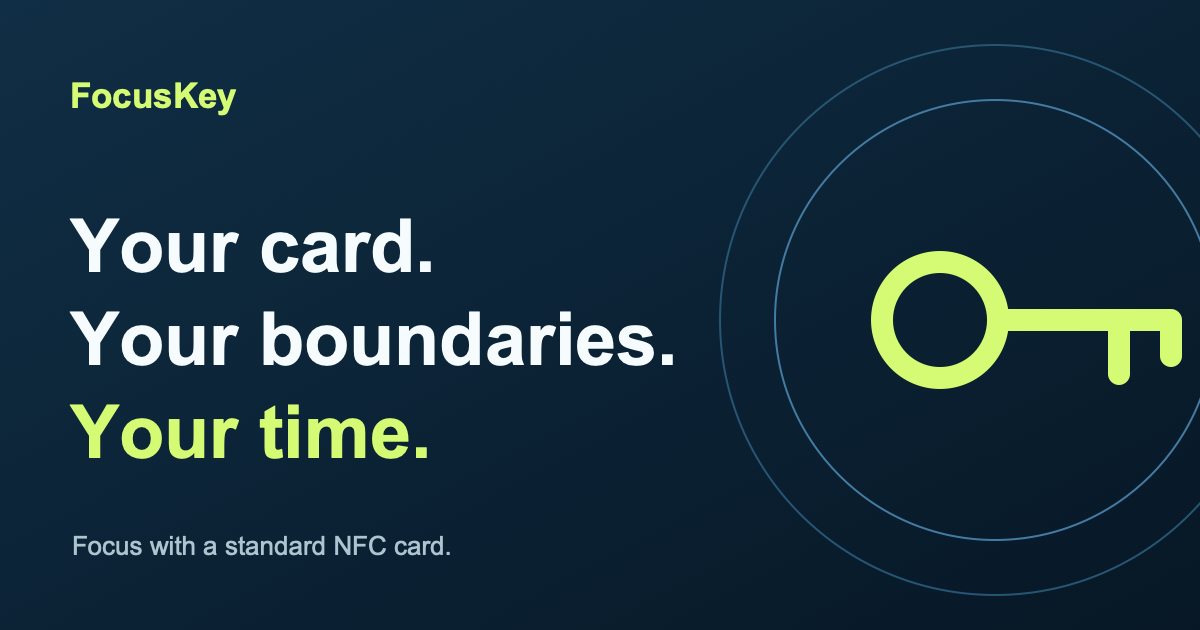
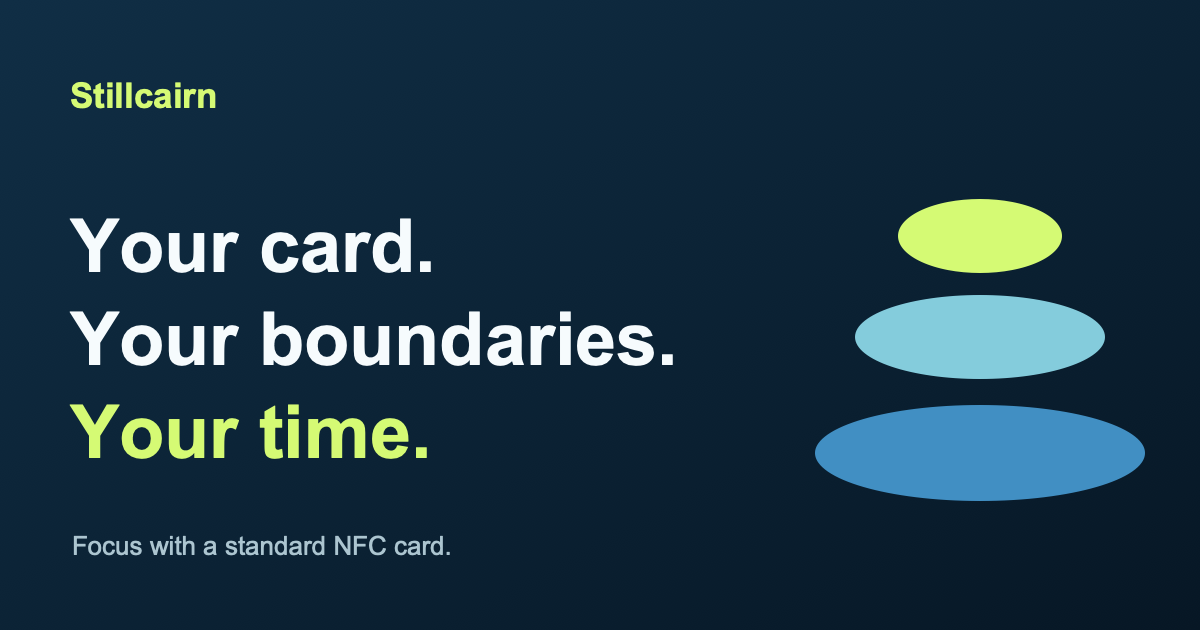
Rebrand public site as Stillcairn

diff --git a/index.html b/index.html
@@ -4,31 +4,31 @@
   <meta charset="utf-8">
   <meta name="viewport" content="width=device-width, initial-scale=1">
   <meta name="theme-color" content="#091725">
-  <meta name="description" content="FocusKey turns a standard NFC card into a personal focus ritual. Choose what stays available, see your real session history, and keep your focus data on your iPhone.">
+  <meta name="description" content="Stillcairn turns a standard NFC card into a personal focus ritual. Choose what stays available, see your real session history, and keep your focus data on your iPhone.">
   <meta property="og:type" content="website">
-  <meta property="og:title" content="FocusKey — Your card. Your boundaries. Your time.">
+  <meta property="og:title" content="Stillcairn — Your card. Your boundaries. Your time.">
   <meta property="og:description" content="A personal focus ritual built around a standard NFC card, thoughtful profiles, and honest local insights.">
   <meta property="og:image" content="https://focus.cybrpulse.com/social.png">
   <meta property="og:url" content="https://focus.cybrpulse.com/">
   <link rel="canonical" href="https://focus.cybrpulse.com/">
   <link rel="icon" href="favicon.svg" type="image/svg+xml">
   <link rel="stylesheet" href="styles.css">
-  <title>FocusKey — Your card. Your boundaries. Your time.</title>
+  <title>Stillcairn — Your card. Your boundaries. Your time.</title>
 </head>
 <body>
   <a class="skip-link" href="#main">Skip to content</a>
   <header class="site-header">
     <div class="shell nav-row">
-      <a class="brand" href="./" aria-label="FocusKey home">
-        <svg class="brand-icon" viewBox="0 0 40 40" fill="none" aria-hidden="true"><rect x="1" y="1" width="38" height="38" rx="12" fill="#142e45"/><circle cx="15" cy="20" r="6" stroke="#d5fa74" stroke-width="4"/><path d="M21 20h12m-5 0v5m5-5v3" stroke="#d5fa74" stroke-width="4" stroke-linecap="round"/></svg>
-        <span>FocusKey</span>
+      <a class="brand" href="./" aria-label="Stillcairn home">
+        <svg class="brand-icon" viewBox="0 0 40 40" fill="none" aria-hidden="true"><rect x="1" y="1" width="38" height="38" rx="12" fill="#142e45"/><ellipse cx="20" cy="27" rx="12" ry="3.5" fill="#418fc3"/><ellipse cx="20" cy="19.5" rx="9" ry="3.2" fill="#84ccdc"/><ellipse cx="20" cy="12.5" rx="6" ry="3" fill="#d5fa74"/></svg>
+        <span>Stillcairn</span>
       </a>
       <nav class="main-nav" aria-label="Main navigation">
         <a href="#how-it-works">How it works</a>
-        <a href="#why-focuskey">Why FocusKey</a>
+        <a href="#why-stillcairn">Why Stillcairn</a>
         <a href="#questions">Questions</a>
       </nav>
-      <a class="nav-cta" href="mailto:support@cybrpulse.com?subject=FocusKey%20early%20access">Request early access <span aria-hidden="true">↗</span></a>
+      <a class="nav-cta" href="mailto:support@cybrpulse.com?subject=Stillcairn%20early%20access">Request early access <span aria-hidden="true">↗</span></a>
     </div>
   </header>
 
@@ -39,19 +39,19 @@
         <h1 id="hero-title">Your card.<br>Your boundaries.<br><em>Your time.</em></h1>
         <p class="hero-lede">Turn an ordinary NFC card into a moment of intention. Choose what stays available, step away from distractions, and see the focus sessions you actually completed.</p>
         <div class="hero-actions">
-          <a class="button button-primary" href="mailto:support@cybrpulse.com?subject=FocusKey%20early%20access">Request early access <span aria-hidden="true">↗</span></a>
+          <a class="button button-primary" href="mailto:support@cybrpulse.com?subject=Stillcairn%20early%20access">Request early access <span aria-hidden="true">↗</span></a>
           <a class="text-link" href="#how-it-works">Explore the ritual <span aria-hidden="true">↓</span></a>
         </div>
-        <div class="hero-proof" aria-label="FocusKey principles">
+        <div class="hero-proof" aria-label="Stillcairn principles">
           <span>Standard NFC cards</span><span>Local by design</span><span>iPhone first</span>
         </div>
       </div>
-      <div class="hero-art" aria-label="Illustration of FocusKey on an iPhone with a physical NFC card">
+      <div class="hero-art" aria-label="Illustration of Stillcairn on an iPhone with a physical NFC card">
         <div class="orbit orbit-one"></div><div class="orbit orbit-two"></div>
         <div class="phone-frame">
           <div class="phone-screen">
             <div class="phone-status"><span>9:41</span><span>●●● ▰</span></div>
-            <div class="phone-head"><span class="phone-logo">◉</span><span>FOCUSKEY</span></div>
+            <div class="phone-head"><span class="phone-logo">◉</span><span>STILLCAIRN</span></div>
             <div class="phone-greeting">Make space for<br><strong>deep work.</strong></div>
             <div class="session-card">
               <div class="session-top"><span class="session-label">FOCUS IS ON</span><span class="session-spark">✦</span></div>
@@ -64,7 +64,7 @@
             <div class="phone-tab"><span>◉<small>Focus</small></span><span>▣<small>Profiles</small></span><span>▥<small>Insights</small></span></div>
           </div>
         </div>
-        <div class="key-card" aria-hidden="true"><div class="key-card-top"><span>FK / 01</span><span>↗</span></div><svg viewBox="0 0 120 120" fill="none"><circle cx="60" cy="60" r="46" stroke="#5ba7ff" stroke-width="2" opacity=".8"/><circle cx="47" cy="60" r="13" stroke="#d5fa74" stroke-width="7"/><path d="M60 60h36m-11 0v13m11-13v9" stroke="#d5fa74" stroke-width="7" stroke-linecap="round"/></svg><span class="key-card-label">YOUR PHYSICAL KEY</span></div>
+        <div class="key-card" aria-hidden="true"><div class="key-card-top"><span>SC / 01</span><span>↗</span></div><svg viewBox="0 0 120 120" fill="none"><ellipse cx="60" cy="83" rx="35" ry="10" fill="#418fc3"/><ellipse cx="60" cy="60" rx="27" ry="9" fill="#84ccdc"/><ellipse cx="60" cy="39" rx="18" ry="8" fill="#d5fa74"/></svg><span class="key-card-label">YOUR PHYSICAL KEY</span></div>
         <span class="art-caption">Illustrative app preview</span>
       </div>
     </section>
@@ -72,7 +72,7 @@
     <section class="marquee-band" aria-label="Product highlights"><div class="shell marquee-inner"><span>CHOOSE YOUR CARD</span><b>✦</b><span>KEEP YOUR ESSENTIALS</span><b>✦</b><span>SEE YOUR REAL PROGRESS</span><b>✦</b><span>RETURN WITH INTENTION</span></div></section>
 
     <section id="how-it-works" class="section shell ritual-section">
-      <div class="section-heading"><p class="kicker">01 / A SIMPLE RITUAL</p><h2>Three steps.<br><span>More room to think.</span></h2><p>FocusKey gives your intention a physical place to live. Your iPhone remains useful while the distractions you selected take a break.</p></div>
+      <div class="section-heading"><p class="kicker">01 / A SIMPLE RITUAL</p><h2>Three steps.<br><span>More room to think.</span></h2><p>Stillcairn gives your intention a physical place to live. Your iPhone remains useful while the distractions you selected take a break.</p></div>
       <div class="steps-grid">
         <article class="step-card"><div class="step-number">01 <span>↗</span></div><div class="step-visual visual-select"><div class="mini-row"><span class="mini-square blue"></span><span>Deep work</span><span class="mini-check">✓</span></div><div class="mini-row"><span class="mini-square lime"></span><span>Family time</span><span>○</span></div><div class="mini-row"><span class="mini-square muted"></span><span>Evening reset</span><span>○</span></div></div><h3>Set the scene</h3><p>Make a profile for each part of your day. Pause selected apps and sites, or choose supported essentials to keep available.</p></article>
         <article class="step-card"><div class="step-number">02 <span>↗</span></div><div class="step-visual visual-card"><div class="tap-card"><span class="tap-rings">◖))</span><span>YOUR CARD</span></div><div class="tap-wave"></div></div><h3>Scan your card</h3><p>Use a compatible writable NFC card. Keep it at your desk, door, or wherever you want to return before ending a session.</p></article>
@@ -80,33 +80,33 @@
       </div>
     </section>
 
-    <section id="why-focuskey" class="difference-section">
+    <section id="why-stillcairn" class="difference-section">
       <div class="shell difference-grid">
-        <div class="difference-intro"><p class="kicker">02 / THE FOCUSKEY WAY</p><h2>A tool you can<br><em>make your own.</em></h2><p>The focus ritual should fit your life. Choose your card, set your own boundaries, and keep a clear view of what happened.</p><a class="light-link" href="#questions">Common questions <span aria-hidden="true">↗</span></a></div>
+        <div class="difference-intro"><p class="kicker">02 / THE STILLCAIRN WAY</p><h2>A tool you can<br><em>make your own.</em></h2><p>The focus ritual should fit your life. Choose your card, set your own boundaries, and keep a clear view of what happened.</p><a class="light-link" href="#questions">Common questions <span aria-hidden="true">↗</span></a></div>
         <div class="difference-list">
-          <article><span class="feature-icon">⌁</span><div><h3>Bring a standard card</h3><p>FocusKey works with writable NTAG213, NTAG215, and NTAG216 NFC cards. Add more than one key and label where you keep each one.</p></div><span class="feature-index">01</span></article>
+          <article><span class="feature-icon">⌁</span><div><h3>Bring a standard card</h3><p>Stillcairn works with writable NTAG213, NTAG215, and NTAG216 NFC cards. Add more than one key and label where you keep each one.</p></div><span class="feature-index">01</span></article>
           <article><span class="feature-icon">◌</span><div><h3>Keep your setup local</h3><p>Your profiles, card pairings, and session history live on your iPhone. A card can be added to another phone with a separate local pairing.</p></div><span class="feature-index">02</span></article>
           <article><span class="feature-icon">◷</span><div><h3>Build a rhythm</h3><p>Start with a scan or set a weekly focus window. A Home Screen widget keeps the active profile and elapsed timer in sight.</p></div><span class="feature-index">03</span></article>
-          <article><span class="feature-icon">↺</span><div><h3>Recover deliberately</h3><p>Lost your card? A confirmed recovery clears FocusKey’s restrictions and revokes the phone’s paired keys before a fresh setup.</p></div><span class="feature-index">04</span></article>
+          <article><span class="feature-icon">↺</span><div><h3>Recover deliberately</h3><p>Lost your card? A confirmed recovery clears Stillcairn’s restrictions and revokes the phone’s paired keys before a fresh setup.</p></div><span class="feature-index">04</span></article>
         </div>
       </div>
     </section>
 
-    <section class="section shell insight-section"><div class="insight-copy"><p class="kicker">03 / PROGRESS YOU CAN TRUST</p><h2>See the time<br>you <em>showed up.</em></h2><p>FocusKey counts completed focus sessions, not hypothetical productivity. Explore your week, compare profiles, and recognize the effort that became a habit.</p><div class="insight-tags"><span>Completed sessions</span><span>Time in focus</span><span>Profile trends</span></div></div><div class="insight-panel"><div class="panel-top"><span>YOUR WEEK</span><span>EXAMPLE DATA</span></div><div class="panel-metric">8h <span>24m</span></div><div class="panel-caption">Recorded focus time</div><div class="large-bars" aria-hidden="true"><div><i style="--h:41%"></i><small>M</small></div><div><i style="--h:67%"></i><small>T</small></div><div><i style="--h:34%"></i><small>W</small></div><div><i style="--h:83%"></i><small>T</small></div><div><i style="--h:59%"></i><small>F</small></div><div><i style="--h:98%"></i><small>S</small></div><div><i style="--h:72%"></i><small>S</small></div></div><div class="panel-bottom"><span>Example chart · Your data stays on your iPhone</span><span>↗</span></div></div></section>
+    <section class="section shell insight-section"><div class="insight-copy"><p class="kicker">03 / PROGRESS YOU CAN TRUST</p><h2>See the time<br>you <em>showed up.</em></h2><p>Stillcairn counts completed focus sessions, not hypothetical productivity. Explore your week, compare profiles, and recognize the effort that became a habit.</p><div class="insight-tags"><span>Completed sessions</span><span>Time in focus</span><span>Profile trends</span></div></div><div class="insight-panel"><div class="panel-top"><span>YOUR WEEK</span><span>EXAMPLE DATA</span></div><div class="panel-metric">8h <span>24m</span></div><div class="panel-caption">Recorded focus time</div><div class="large-bars" aria-hidden="true"><div><i style="--h:41%"></i><small>M</small></div><div><i style="--h:67%"></i><small>T</small></div><div><i style="--h:34%"></i><small>W</small></div><div><i style="--h:83%"></i><small>T</small></div><div><i style="--h:59%"></i><small>F</small></div><div><i style="--h:98%"></i><small>S</small></div><div><i style="--h:72%"></i><small>S</small></div></div><div class="panel-bottom"><span>Example chart · Your data stays on your iPhone</span><span>↗</span></div></div></section>
 
     <section class="quote-section"><div class="shell"><p class="kicker">YOUR PHONE, WITH PURPOSE</p><blockquote>“Choose what gets your attention. Give that choice a place in the real world.”</blockquote><p class="quote-note">A small, repeatable action can make the next hour feel different.</p></div></section>
 
     <section id="questions" class="section shell faq-section"><div class="faq-intro"><p class="kicker">04 / THE DETAILS</p><h2>Good questions.<br><span>Clear answers.</span></h2></div><div class="faq-list">
       <details><summary>What kind of card do I need?<span>+</span></summary><p>A writable NTAG213, NTAG215, or NTAG216 NFC card. Choose a card with a roughly 25–30 mm antenna for easier scanning. For a metal surface, use an on-metal or ferrite-backed tag.</p></details>
-      <details><summary>Can I pair more than one card?<span>+</span></summary><p>Yes. FocusKey supports up to 16 cards on one iPhone. You can name each key and remove an individual key while no focus session or scheduled window is active.</p></details>
-      <details><summary>Can I use one card on another iPhone?<span>+</span></summary><p>Yes. Scan an existing FocusKey card in the second iPhone’s Add key flow. Each phone stores and manages its own pairing; removing a card from one phone does not remove it from the other.</p></details>
-      <details><summary>What happens if I lose every card?<span>+</span></summary><p>Use the app’s confirmed Lost your key recovery. It clears FocusKey’s restrictions on that phone, revokes its paired cards, and requires a new card write and verification before another focus session. It cannot erase a lost physical card.</p></details>
-      <details><summary>Does this lock my whole phone?<span>+</span></summary><p>No. FocusKey uses iOS Screen Time controls for the apps, categories, and supported websites selected in a profile. It does not change your passcode or lock the device. You retain control of Screen Time authorization in iOS Settings.</p></details>
-      <details><summary>Is FocusKey available to buy today?<span>+</span></summary><p>FocusKey is in private iPhone testing. Pricing and public availability have not been announced. Email us to ask about early access and updates.</p></details>
+      <details><summary>Can I pair more than one card?<span>+</span></summary><p>Yes. Stillcairn supports up to 16 cards on one iPhone. You can name each key and remove an individual key while no focus session or scheduled window is active.</p></details>
+      <details><summary>Can I use one card on another iPhone?<span>+</span></summary><p>Yes. Scan an existing Stillcairn card in the second iPhone’s Add key flow. Each phone stores and manages its own pairing; removing a card from one phone does not remove it from the other.</p></details>
+      <details><summary>What happens if I lose every card?<span>+</span></summary><p>Use the app’s confirmed Lost your key recovery. It clears Stillcairn’s restrictions on that phone, revokes its paired cards, and requires a new card write and verification before another focus session. It cannot erase a lost physical card.</p></details>
+      <details><summary>Does this lock my whole phone?<span>+</span></summary><p>No. Stillcairn uses iOS Screen Time controls for the apps, categories, and supported websites selected in a profile. It does not change your passcode or lock the device. You retain control of Screen Time authorization in iOS Settings.</p></details>
+      <details><summary>Is Stillcairn available to buy today?<span>+</span></summary><p>Stillcairn is in private iPhone testing. Pricing and public availability have not been announced. Email us to ask about early access and updates.</p></details>
     </div></section>
 
-    <section class="closing-section"><div class="shell closing-grid"><div><p class="kicker">FOCUS BEGINS WITH A CHOICE</p><h2>Put intention<br><em>within reach.</em></h2><p>Bring a card. Make a profile. Give the next part of your day a little more space.</p><a class="button button-dark" href="mailto:support@cybrpulse.com?subject=FocusKey%20early%20access">Request early access <span aria-hidden="true">↗</span></a><span class="availability">Private iPhone testing · iOS 17 or later</span></div><div class="closing-mark" aria-hidden="true"><svg viewBox="0 0 220 220" fill="none"><circle cx="110" cy="110" r="100" stroke="#0e293b" stroke-width="2"/><circle cx="92" cy="110" r="30" stroke="#0e293b" stroke-width="13"/><path d="M122 110h70m-20 0v28m20-28v18" stroke="#0e293b" stroke-width="13" stroke-linecap="round"/></svg></div></div></section>
+    <section class="closing-section"><div class="shell closing-grid"><div><p class="kicker">FOCUS BEGINS WITH A CHOICE</p><h2>Put intention<br><em>within reach.</em></h2><p>Bring a card. Make a profile. Give the next part of your day a little more space.</p><a class="button button-dark" href="mailto:support@cybrpulse.com?subject=Stillcairn%20early%20access">Request early access <span aria-hidden="true">↗</span></a><span class="availability">Private iPhone testing · iOS 17 or later</span></div><div class="closing-mark" aria-hidden="true"><svg viewBox="0 0 220 220" fill="none"><ellipse cx="110" cy="155" rx="78" ry="23" fill="#0e293b"/><ellipse cx="110" cy="109" rx="60" ry="20" fill="#0e293b"/><ellipse cx="110" cy="67" rx="39" ry="18" fill="#0e293b"/></svg></div></div></section>
   </main>
-  <footer class="site-footer"><div class="shell footer-grid"><div><a class="brand" href="./"><svg class="brand-icon" viewBox="0 0 40 40" fill="none" aria-hidden="true"><rect x="1" y="1" width="38" height="38" rx="12" fill="#142e45"/><circle cx="15" cy="20" r="6" stroke="#d5fa74" stroke-width="4"/><path d="M21 20h12m-5 0v5m5-5v3" stroke="#d5fa74" stroke-width="4" stroke-linecap="round"/></svg><span>FocusKey</span></a><p>A little distance from distraction.<br>A clearer view of what matters.</p></div><div class="footer-links"><div><strong>Explore</strong><a href="#how-it-works">How it works</a><a href="#why-focuskey">Why FocusKey</a><a href="#questions">FAQ</a></div><div><strong>Information</strong><a href="privacy.html">Privacy</a><a href="support.html">Support</a><a href="mailto:support@cybrpulse.com?subject=FocusKey%20question">Contact</a></div></div></div><div class="shell footer-bottom"><span>© 2026 CHAPPIE LLC · FocusKey</span><span>Built for intentional iPhone use.</span></div></footer>
+  <footer class="site-footer"><div class="shell footer-grid"><div><a class="brand" href="./"><svg class="brand-icon" viewBox="0 0 40 40" fill="none" aria-hidden="true"><rect x="1" y="1" width="38" height="38" rx="12" fill="#142e45"/><ellipse cx="20" cy="27" rx="12" ry="3.5" fill="#418fc3"/><ellipse cx="20" cy="19.5" rx="9" ry="3.2" fill="#84ccdc"/><ellipse cx="20" cy="12.5" rx="6" ry="3" fill="#d5fa74"/></svg><span>Stillcairn</span></a><p>A little distance from distraction.<br>A clearer view of what matters.</p></div><div class="footer-links"><div><strong>Explore</strong><a href="#how-it-works">How it works</a><a href="#why-stillcairn">Why Stillcairn</a><a href="#questions">FAQ</a></div><div><strong>Information</strong><a href="privacy.html">Privacy</a><a href="support.html">Support</a><a href="mailto:support@cybrpulse.com?subject=Stillcairn%20question">Contact</a></div></div></div><div class="shell footer-bottom"><span>© 2026 CHAPPIE LLC · Stillcairn</span><span>Built for intentional iPhone use.</span></div></footer>
 </body>
 </html>

diff --git a/privacy.html b/privacy.html
@@ -1,12 +1,12 @@
 <!doctype html>
-<html lang="en"><head><meta charset="utf-8"><meta name="viewport" content="width=device-width, initial-scale=1"><meta name="theme-color" content="#091725"><meta name="description" content="How FocusKey handles app data and website visits."><link rel="icon" href="favicon.svg" type="image/svg+xml"><link rel="stylesheet" href="styles.css"><title>Privacy · FocusKey</title></head>
-<body class="legal-body"><a class="skip-link" href="#main">Skip to content</a><header class="site-header"><div class="shell nav-row"><a class="brand" href="./"><svg class="brand-icon" viewBox="0 0 40 40" fill="none" aria-hidden="true"><rect x="1" y="1" width="38" height="38" rx="12" fill="#142e45"/><circle cx="15" cy="20" r="6" stroke="#d5fa74" stroke-width="4"/><path d="M21 20h12m-5 0v5m5-5v3" stroke="#d5fa74" stroke-width="4" stroke-linecap="round"/></svg><span>FocusKey</span></a><nav class="main-nav" aria-label="Main navigation"><a href="./#how-it-works">How it works</a><a href="./#why-focuskey">Why FocusKey</a><a href="support.html">Support</a></nav><a class="nav-cta" href="mailto:support@cybrpulse.com?subject=FocusKey%20early%20access">Request early access <span aria-hidden="true">↗</span></a></div></header>
-<main id="main" class="legal-wrap"><a class="back-link" href="./">← Back to FocusKey</a><p class="kicker">INFORMATION / PRIVACY</p><h1>Privacy policy.</h1><p class="legal-intro">FocusKey is designed to work locally on your iPhone. This policy describes the app in private testing and this website. Effective October 5, 2026.</p>
-<h2>FocusKey app</h2><p>The app has no account, cloud backend, ads, analytics SDK, or tracking. Profiles, selected Screen Time tokens, session history, paired-key digests, and diagnostics stay in local app storage on your iPhone. The Home Screen widget reads a limited local status snapshot through the app’s shared App Group; it does not receive the card value or Screen Time selection tokens.</p>
-<h2>Screen Time and NFC</h2><p>FocusKey asks iOS for Family Controls authorization to let you select apps, categories, and supported websites and apply restrictions during a focus session. You can revoke this authorization in iOS Settings. The app writes a random value to a compatible NFC card and stores a SHA-256 digest for local matching. The raw card value is not included in diagnostics. A passive card can be copied by someone who can read it; FocusKey does not claim clone resistance.</p>
-<h2>Session insights</h2><p>Insights calculate time within recorded FocusKey sessions. They do not measure your actual app use, claim to reduce screen time, or estimate time saved. Completed records remain on your device under the device’s normal backup settings.</p>
-<h2>Lost-key recovery</h2><p>A confirmed recovery clears FocusKey’s restrictions on that phone, revokes its locally paired keys, and requires a fresh card write and verification before another focus session. It does not erase the contents of a lost card or revoke a pairing stored on a different phone.</p>
+<html lang="en"><head><meta charset="utf-8"><meta name="viewport" content="width=device-width, initial-scale=1"><meta name="theme-color" content="#091725"><meta name="description" content="How Stillcairn handles app data and website visits."><link rel="icon" href="favicon.svg" type="image/svg+xml"><link rel="stylesheet" href="styles.css"><title>Privacy · Stillcairn</title></head>
+<body class="legal-body"><a class="skip-link" href="#main">Skip to content</a><header class="site-header"><div class="shell nav-row"><a class="brand" href="./"><svg class="brand-icon" viewBox="0 0 40 40" fill="none" aria-hidden="true"><rect x="1" y="1" width="38" height="38" rx="12" fill="#142e45"/><ellipse cx="20" cy="27" rx="12" ry="3.5" fill="#418fc3"/><ellipse cx="20" cy="19.5" rx="9" ry="3.2" fill="#84ccdc"/><ellipse cx="20" cy="12.5" rx="6" ry="3" fill="#d5fa74"/></svg><span>Stillcairn</span></a><nav class="main-nav" aria-label="Main navigation"><a href="./#how-it-works">How it works</a><a href="./#why-stillcairn">Why Stillcairn</a><a href="support.html">Support</a></nav><a class="nav-cta" href="mailto:support@cybrpulse.com?subject=Stillcairn%20early%20access">Request early access <span aria-hidden="true">↗</span></a></div></header>
+<main id="main" class="legal-wrap"><a class="back-link" href="./">← Back to Stillcairn</a><p class="kicker">INFORMATION / PRIVACY</p><h1>Privacy policy.</h1><p class="legal-intro">Stillcairn is designed to work locally on your iPhone. This policy describes the app in private testing and this website. Effective October 5, 2026.</p>
+<h2>Stillcairn app</h2><p>The app has no account, cloud backend, ads, analytics SDK, or tracking. Profiles, selected Screen Time tokens, session history, paired-key digests, and diagnostics stay in local app storage on your iPhone. The Home Screen widget reads a limited local status snapshot through the app’s shared App Group; it does not receive the card value or Screen Time selection tokens.</p>
+<h2>Screen Time and NFC</h2><p>Stillcairn asks iOS for Family Controls authorization to let you select apps, categories, and supported websites and apply restrictions during a focus session. You can revoke this authorization in iOS Settings. The app writes a random value to a compatible NFC card and stores a SHA-256 digest for local matching. The raw card value is not included in diagnostics. A passive card can be copied by someone who can read it; Stillcairn does not claim clone resistance.</p>
+<h2>Session insights</h2><p>Insights calculate time within recorded Stillcairn sessions. They do not measure your actual app use, claim to reduce screen time, or estimate time saved. Completed records remain on your device under the device’s normal backup settings.</p>
+<h2>Lost-key recovery</h2><p>A confirmed recovery clears Stillcairn’s restrictions on that phone, revokes its locally paired keys, and requires a fresh card write and verification before another focus session. It does not erase the contents of a lost card or revoke a pairing stored on a different phone.</p>
 <h2>This website</h2><p>This static website does not set marketing cookies, run analytics scripts, or collect information through a form. Its hosting and DNS providers may process standard connection information such as IP address and request logs to deliver the site. If you email us, your message and address are handled by the email providers needed to receive and answer it.</p>
-<h2>Contact</h2><p>For privacy questions, email <a href="mailto:privacy@cybrpulse.com?subject=FocusKey%20privacy">privacy@cybrpulse.com</a>. For product help, email <a href="mailto:support@cybrpulse.com?subject=FocusKey%20support">support@cybrpulse.com</a>.</p>
-<div class="legal-note"><p>FocusKey is currently in private testing. This policy will be reviewed again before public release.</p></div></main>
-<footer class="site-footer"><div class="shell footer-bottom"><span>© 2026 CHAPPIE LLC · FocusKey</span><span><a href="./">Home</a> · <a href="support.html">Support</a></span></div></footer></body></html>
+<h2>Contact</h2><p>For privacy questions, email <a href="mailto:privacy@cybrpulse.com?subject=Stillcairn%20privacy">privacy@cybrpulse.com</a>. For product help, email <a href="mailto:support@cybrpulse.com?subject=Stillcairn%20support">support@cybrpulse.com</a>.</p>
+<div class="legal-note"><p>Stillcairn is currently in private testing. This policy will be reviewed again before public release.</p></div></main>
+<footer class="site-footer"><div class="shell footer-bottom"><span>© 2026 CHAPPIE LLC · Stillcairn</span><span><a href="./">Home</a> · <a href="support.html">Support</a></span></div></footer></body></html>

diff --git a/support.html b/support.html
@@ -1,12 +1,12 @@
 <!doctype html>
-<html lang="en"><head><meta charset="utf-8"><meta name="viewport" content="width=device-width, initial-scale=1"><meta name="theme-color" content="#091725"><meta name="description" content="FocusKey setup, NFC card, Screen Time, and recovery help."><link rel="icon" href="favicon.svg" type="image/svg+xml"><link rel="stylesheet" href="styles.css"><title>Support · FocusKey</title></head>
-<body class="legal-body"><a class="skip-link" href="#main">Skip to content</a><header class="site-header"><div class="shell nav-row"><a class="brand" href="./"><svg class="brand-icon" viewBox="0 0 40 40" fill="none" aria-hidden="true"><rect x="1" y="1" width="38" height="38" rx="12" fill="#142e45"/><circle cx="15" cy="20" r="6" stroke="#d5fa74" stroke-width="4"/><path d="M21 20h12m-5 0v5m5-5v3" stroke="#d5fa74" stroke-width="4" stroke-linecap="round"/></svg><span>FocusKey</span></a><nav class="main-nav" aria-label="Main navigation"><a href="./#how-it-works">How it works</a><a href="./#questions">FAQ</a><a href="privacy.html">Privacy</a></nav><a class="nav-cta" href="mailto:support@cybrpulse.com?subject=FocusKey%20support">Contact support <span aria-hidden="true">↗</span></a></div></header>
-<main id="main" class="legal-wrap"><a class="back-link" href="./">← Back to FocusKey</a><p class="kicker">INFORMATION / SUPPORT</p><h1>Here to help.</h1><p class="legal-intro">FocusKey is in private iPhone testing. Tell us what happened and we’ll help you get back to your intended setup.</p>
-<div class="legal-note"><p>Email <a href="mailto:support@cybrpulse.com?subject=FocusKey%20support">support@cybrpulse.com</a> with your iPhone model, iOS version, app build, and what you saw. Please do not send NFC card contents or private Screen Time selections.</p></div>
-<h2>Screen Time access</h2><p>During setup, allow the Family Controls request from iOS and choose the apps, categories, or supported websites for a profile. If access is off later, use the request button in FocusKey Settings. iOS Settings remains the place to manage this permission.</p>
+<html lang="en"><head><meta charset="utf-8"><meta name="viewport" content="width=device-width, initial-scale=1"><meta name="theme-color" content="#091725"><meta name="description" content="Stillcairn setup, NFC card, Screen Time, and recovery help."><link rel="icon" href="favicon.svg" type="image/svg+xml"><link rel="stylesheet" href="styles.css"><title>Support · Stillcairn</title></head>
+<body class="legal-body"><a class="skip-link" href="#main">Skip to content</a><header class="site-header"><div class="shell nav-row"><a class="brand" href="./"><svg class="brand-icon" viewBox="0 0 40 40" fill="none" aria-hidden="true"><rect x="1" y="1" width="38" height="38" rx="12" fill="#142e45"/><ellipse cx="20" cy="27" rx="12" ry="3.5" fill="#418fc3"/><ellipse cx="20" cy="19.5" rx="9" ry="3.2" fill="#84ccdc"/><ellipse cx="20" cy="12.5" rx="6" ry="3" fill="#d5fa74"/></svg><span>Stillcairn</span></a><nav class="main-nav" aria-label="Main navigation"><a href="./#how-it-works">How it works</a><a href="./#questions">FAQ</a><a href="privacy.html">Privacy</a></nav><a class="nav-cta" href="mailto:support@cybrpulse.com?subject=Stillcairn%20support">Contact support <span aria-hidden="true">↗</span></a></div></header>
+<main id="main" class="legal-wrap"><a class="back-link" href="./">← Back to Stillcairn</a><p class="kicker">INFORMATION / SUPPORT</p><h1>Here to help.</h1><p class="legal-intro">Stillcairn is in private iPhone testing. Tell us what happened and we’ll help you get back to your intended setup.</p>
+<div class="legal-note"><p>Email <a href="mailto:support@cybrpulse.com?subject=Stillcairn%20support">support@cybrpulse.com</a> with your iPhone model, iOS version, app build, and what you saw. Please do not send NFC card contents or private Screen Time selections.</p></div>
+<h2>Screen Time access</h2><p>During setup, allow the Family Controls request from iOS and choose the apps, categories, or supported websites for a profile. If access is off later, use the request button in Stillcairn Settings. iOS Settings remains the place to manage this permission.</p>
 <h2>Pairing a card</h2><p>Use a writable NTAG213, NTAG215, or NTAG216 card. Hold the top of your iPhone near the card during the write scan, then present that same card for the confirmation scan. A card near metal may need an on-metal or ferrite-backed design. If writing may have succeeded before an error, choose “Already written? Verify this key” to scan it without overwriting.</p>
 <h2>A scan does not work</h2><p>Move the top edge of the iPhone slowly across the card, remove a thick case if needed, and try again. If the card is read-only, unsupported, or too small, use another compatible writable card. A different or removed card cannot end a session.</p>
-<h2>Ending focus or losing a card</h2><p>Open FocusKey and scan any key paired with that iPhone to end manual focus or an active schedule early. If every key is lost, use the confirmed “Lost your key?” recovery in Settings. It clears FocusKey’s restrictions on that phone and requires a freshly written and verified key for future sessions.</p>
-<h2>Availability</h2><p>FocusKey is currently in private iPhone testing. Public availability and pricing have not been announced. To ask about early access, <a href="mailto:support@cybrpulse.com?subject=FocusKey%20early%20access">send us an email</a>.</p>
+<h2>Ending focus or losing a card</h2><p>Open Stillcairn and scan any key paired with that iPhone to end manual focus or an active schedule early. If every key is lost, use the confirmed “Lost your key?” recovery in Settings. It clears Stillcairn’s restrictions on that phone and requires a freshly written and verified key for future sessions.</p>
+<h2>Availability</h2><p>Stillcairn is currently in private iPhone testing. Public availability and pricing have not been announced. To ask about early access, <a href="mailto:support@cybrpulse.com?subject=Stillcairn%20early%20access">send us an email</a>.</p>
 <p>Read the <a href="privacy.html">privacy policy</a>.</p></main>
-<footer class="site-footer"><div class="shell footer-bottom"><span>© 2026 CHAPPIE LLC · FocusKey</span><span><a href="./">Home</a> · <a href="privacy.html">Privacy</a></span></div></footer></body></html>
+<footer class="site-footer"><div class="shell footer-bottom"><span>© 2026 CHAPPIE LLC · Stillcairn</span><span><a href="./">Home</a> · <a href="privacy.html">Privacy</a></span></div></footer></body></html>

diff --git a/README.md b/README.md
@@ -1,10 +1,10 @@
-# FocusKey website
+# Stillcairn website
 
-Static public website for the FocusKey iPhone app. The app source is kept in a separate repository.
+Static public website for the Stillcairn iPhone app. The app source is kept in a separate repository.
 
 ## Positioning
 
-**Your card. Your boundaries. Your time.** FocusKey uses standard writable NFC cards, local pairings and recorded session insights. The site describes a private-testing product and has no checkout, testimonials, user-count claims, analytics scripts or fake email form.
+**Your card. Your boundaries. Your time.** Stillcairn uses standard writable NFC cards, local pairings and recorded session insights. The site describes a private-testing product and has no checkout, testimonials, user-count claims, analytics scripts or fake email form.
 
 ## Local preview
 
